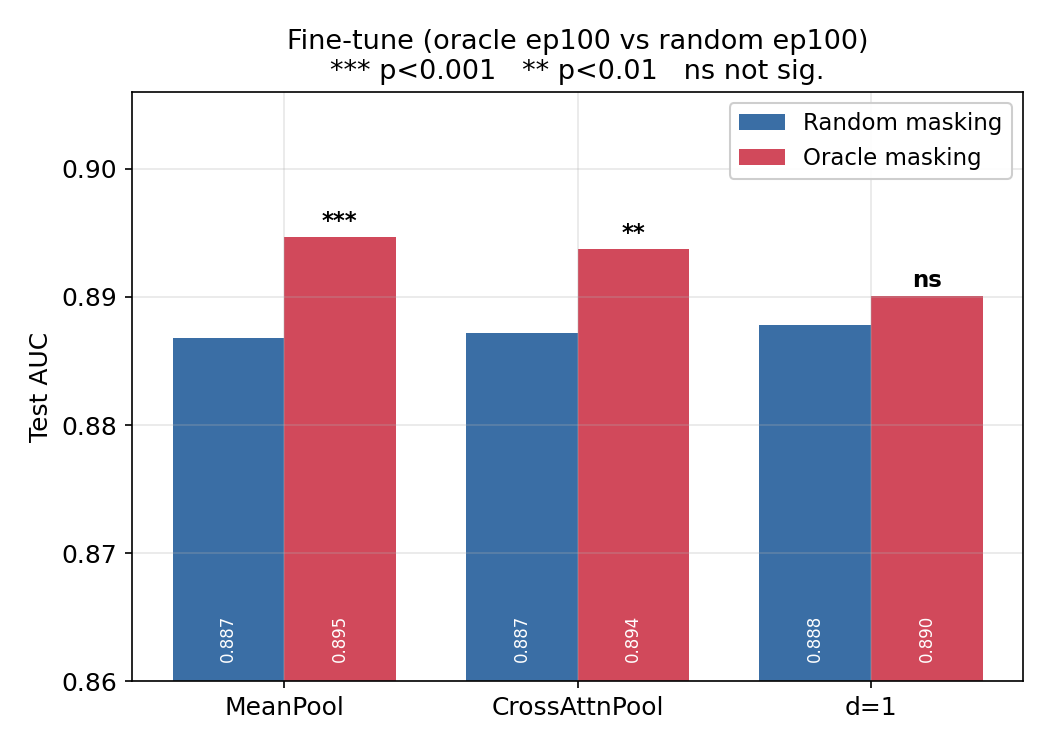
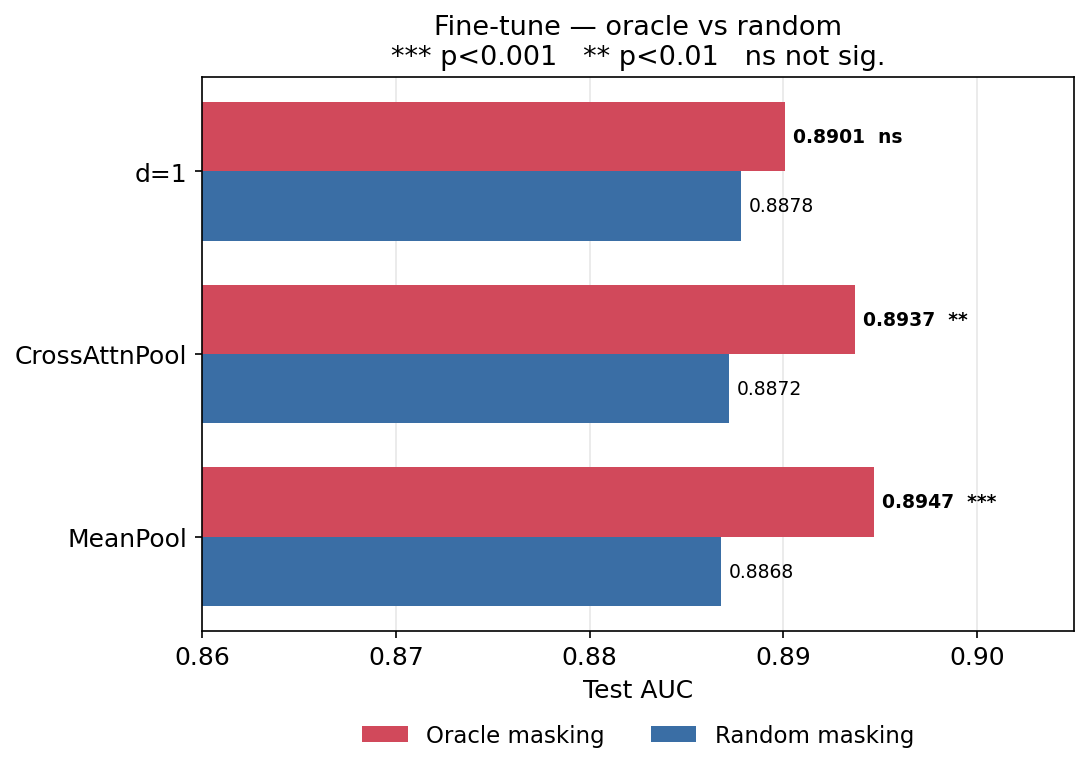
docs: convert oracle comparison figures to horizontal bar charts
Both panels now grouped horizontal bars in the probe_ranking style (was line +
bar); shared legend below, value labels at bar ends, significance stars. Data
unchanged. Renames oracle_frozen_curve.png -> oracle_frozen_bars.png.

diff --git a/scripts/plot_oracle_comparison.py b/scripts/plot_oracle_comparison.py
@@ -4,7 +4,8 @@ Final committed numbers (see docs/experiments/frozen/oracle_meanpool_sweep.md an
 docs/experiments/finetune/oracle_finetune.md). Significance from the paired bootstrap
 (scripts/bootstrap_frozen_meanpool.py, scripts/bootstrap_finetune.py, B=2000).
 
-Outputs to results/summary/: oracle_frozen_curve.png, oracle_finetune_bars.png, oracle_summary.png
+Horizontal grouped bars in the style of results/summary/probe_ranking_ep100.png.
+Outputs to results/summary/: oracle_frozen_bars.png, oracle_finetune_bars.png, oracle_summary.png
 """
 import os
 import numpy as np
@@ -13,8 +14,7 @@ matplotlib.use('Agg')
 import matplotlib.pyplot as plt
 
 OUT = os.path.join(os.path.dirname(os.path.dirname(os.path.abspath(__file__))), 'results', 'summary')
-plt.rcParams.update({'font.size': 12, 'axes.titlesize': 13, 'axes.labelsize': 12,
-                     'legend.fontsize': 11, 'axes.grid': True, 'grid.alpha': 0.3})
+plt.rcParams.update({'font.size': 12, 'axes.titlesize': 13, 'axes.labelsize': 12, 'legend.fontsize': 11})
 C_ORACLE, C_RANDOM = '#d1495b', '#3a6ea5'
 
 # Frozen MeanPool sweep (Test AUC)
@@ -29,48 +29,46 @@ RANDOM_FT = [0.8868, 0.8872, 0.8878]
 FT_STARS = ['***', '**', 'ns']  # p = 0.001, 0.009, 0.26
 
 
-def frozen_panel(ax):
-    ax.plot(EP, ORACLE_F, 'o-', color=C_ORACLE, label='Oracle masking', markersize=7)
-    ax.plot(EP, RANDOM_F, 's--', color=C_RANDOM, label='Random masking', markersize=7)
-    for x, yo, yr in zip(EP, ORACLE_F, RANDOM_F):
-        ax.annotate(f'+{yo - yr:.3f}', (x, (yo + yr) / 2), fontsize=9, ha='center', color='0.3')
-    ax.set_xlabel('Pretraining epoch')
-    ax.set_ylabel('Test AUC')
-    ax.set_xticks(EP)
-    ax.set_ylim(0.855, 0.892)
-    ax.set_title('Frozen MeanPool probe\npaired bootstrap p<0.0005 at every epoch')
-    ax.legend(loc='lower right')
+def grouped_barh(ax, cats, random_vals, oracle_vals, xlim, title, stars=None, legend=True):
+    y = np.arange(len(cats))
+    h = 0.38
+    ax.barh(y + h / 2, oracle_vals, h, color=C_ORACLE, label='Oracle masking')
+    ax.barh(y - h / 2, random_vals, h, color=C_RANDOM, label='Random masking')
+    for i in range(len(cats)):
+        lbl = f'{oracle_vals[i]:.4f}' + (f'  {stars[i]}' if stars else '')
+        ax.text(oracle_vals[i] + 0.0004, y[i] + h / 2, lbl, va='center', fontsize=9, fontweight='bold')
+        ax.text(random_vals[i] + 0.0004, y[i] - h / 2, f'{random_vals[i]:.4f}', va='center', fontsize=9)
+    ax.set_yticks(y)
+    ax.set_yticklabels(cats)
+    ax.set_xlim(*xlim)
+    ax.set_xlabel('Test AUC')
+    ax.set_title(title)
+    ax.set_axisbelow(True)
+    ax.grid(axis='x', alpha=0.3)
+    if legend:
+        ax.legend(loc='upper center', bbox_to_anchor=(0.5, -0.13), ncol=2, frameon=False)
 
 
-def ft_panel(ax):
-    x = np.arange(len(PROBES))
-    w = 0.38
-    ax.bar(x - w / 2, RANDOM_FT, w, color=C_RANDOM, label='Random masking')
-    ax.bar(x + w / 2, ORACLE_FT, w, color=C_ORACLE, label='Oracle masking')
-    for i, (r, o, s) in enumerate(zip(RANDOM_FT, ORACLE_FT, FT_STARS)):
-        ax.text(i + w / 2, o + 0.0007, s, ha='center', fontsize=11, fontweight='bold')
-        ax.text(i - w / 2, 0.8615, f'{r:.3f}', ha='center', va='bottom', fontsize=8, color='white', rotation=90)
-        ax.text(i + w / 2, 0.8615, f'{o:.3f}', ha='center', va='bottom', fontsize=8, color='white', rotation=90)
-    ax.set_xticks(x)
-    ax.set_xticklabels(PROBES)
-    ax.set_ylim(0.86, 0.906)
-    ax.set_ylabel('Test AUC')
-    ax.set_title('Fine-tune (oracle ep100 vs random ep100)\n*** p<0.001   ** p<0.01   ns not sig.')
-    ax.legend(loc='upper right', framealpha=0.95)
+def frozen(ax, title='Frozen MeanPool — oracle vs random\npaired bootstrap p<0.0005 at every epoch', legend=True):
+    grouped_barh(ax, [f'ep{e}' for e in EP], RANDOM_F, ORACLE_F, (0.855, 0.895), title, legend=legend)
 
 
-for name, fn in [('oracle_frozen_curve', frozen_panel), ('oracle_finetune_bars', ft_panel)]:
-    fig, ax = plt.subplots(figsize=(7, 5))
-    fn(ax)
-    fig.tight_layout()
-    fig.savefig(os.path.join(OUT, name + '.png'), dpi=150)
-    plt.close(fig)
+def finetune(ax, title='Fine-tune — oracle vs random\n*** p<0.001   ** p<0.01   ns not sig.', legend=True):
+    grouped_barh(ax, PROBES, RANDOM_FT, ORACLE_FT, (0.86, 0.905), title, stars=FT_STARS, legend=legend)
 
-fig, (a1, a2) = plt.subplots(1, 2, figsize=(13, 5))
-frozen_panel(a1)
-ft_panel(a2)
-fig.suptitle('Anatomy-guided (oracle) vs random masking — FairVision glaucoma, 3000-volume Test', fontsize=13)
-fig.tight_layout()
-fig.savefig(os.path.join(OUT, 'oracle_summary.png'), dpi=150)
-plt.close(fig)
-print('saved: oracle_frozen_curve.png, oracle_finetune_bars.png, oracle_summary.png')
+
+fig, ax = plt.subplots(figsize=(7.5, 4.8)); frozen(ax)
+fig.savefig(os.path.join(OUT, 'oracle_frozen_bars.png'), dpi=150, bbox_inches='tight'); plt.close(fig)
+
+fig, ax = plt.subplots(figsize=(7.5, 4.8)); finetune(ax)
+fig.savefig(os.path.join(OUT, 'oracle_finetune_bars.png'), dpi=150, bbox_inches='tight'); plt.close(fig)
+
+fig, (a1, a2) = plt.subplots(1, 2, figsize=(14, 5.2))
+frozen(a1, 'Frozen MeanPool sweep\npaired bootstrap p<0.0005 at every epoch', legend=False)
+finetune(a2, 'Fine-tune, 3 probes\n*** p<0.001   ** p<0.01   ns not sig.', legend=False)
+handles, labels = a1.get_legend_handles_labels()
+fig.legend(handles, labels, loc='lower center', ncol=2, frameon=False, bbox_to_anchor=(0.5, 0.015))
+fig.suptitle('Anatomy-guided (oracle) vs random masking — FairVision glaucoma, 3000-volume Test', fontsize=14, y=0.99)
+fig.subplots_adjust(top=0.78, bottom=0.17, left=0.07, right=0.97, wspace=0.28)
+fig.savefig(os.path.join(OUT, 'oracle_summary.png'), dpi=150); plt.close(fig)
+print('saved: oracle_frozen_bars.png, oracle_finetune_bars.png, oracle_summary.png')

diff --git a/docs/experiments/frozen/oracle_meanpool_sweep.md b/docs/experiments/frozen/oracle_meanpool_sweep.md
@@ -41,7 +41,7 @@ Random backfill complete (job `good_dog_d8lx1wg14t`). **Sanity gate passed**: ra
 
 Paired stratified bootstrap, B=2000, seed 42, same resample indices for both models on the shared 3000-volume Test split (`scripts/bootstrap_frozen_meanpool.py`, method per `ablation_analysis.md`).
 
-![Frozen MeanPool: oracle vs random across pretraining epochs](../../../results/summary/oracle_frozen_curve.png)
+![Frozen MeanPool: oracle vs random at ep50/75/100](../../../results/summary/oracle_frozen_bars.png)
 
 **The oracle advantage is significant at every epoch** — all three 95% CIs exclude zero (lower bound ≥ +0.005), p < 0.0005. The ~+0.010 gap is not single-seed noise.
 
